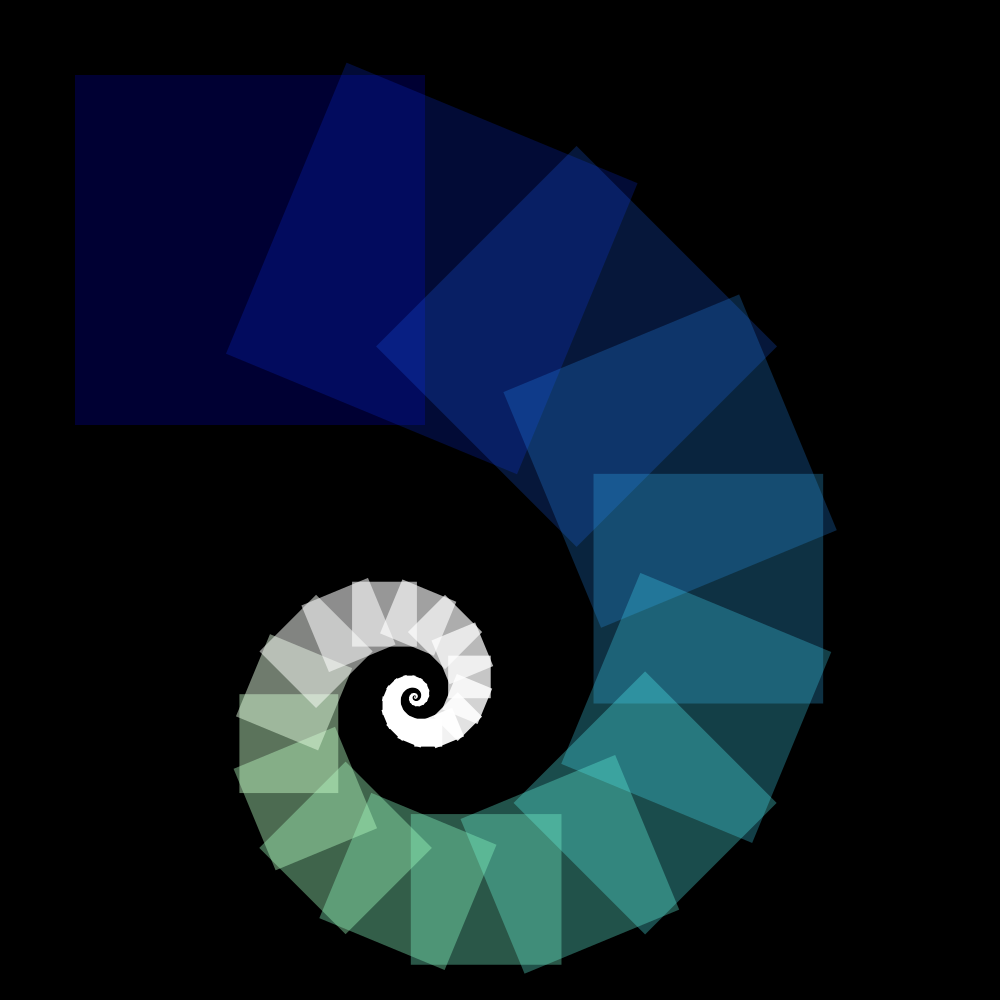
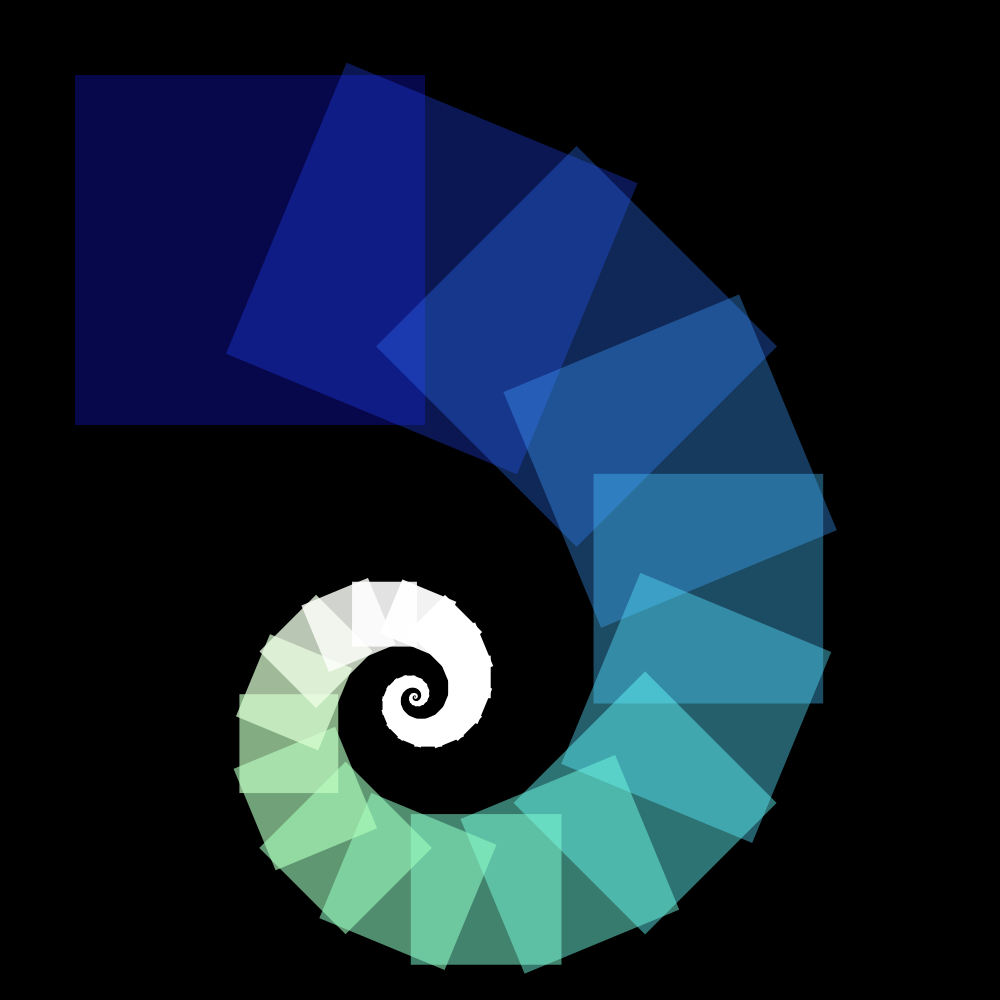
Added command to give background color (plus tests/example of this)

diff --git a/README.md b/README.md
@@ -28,6 +28,8 @@ These are all generated from `Test.hs`.
 
 ![HSL spiral](testHSL.png)
 
+![HSL spiral](testHSL2.png)
+
 ![Sierpinski (ish)](sierpinski.png)
 
 ![Not Sierpinski](notSierpinski.png)
@@ -36,31 +38,34 @@ These are all generated from `Test.hs`.
 
 * Ending grammars that don't converge (e.g. limiting recursion depth
 or number of primitives)
-* Explicit support for background color and starting color (right now
-I rely on Cairo backend for this).  It's cool to only use black as a
-background color, but it gets sorta boring...
 * A way to specify canvas size.  Right now, non-square images will
 throw off the aspect ratio - squares will be drawn as rectangles.
 * Support for other primitives: circle, line, arc
 * Non-uniform scaling.
 * Support for separate stroke and fill, and perhaps thickness
+* Better colorspace than "plain" RGB.
+[colour](https://hackage.haskell.org/package/colour) can probably help
+here.  Alongside this: A saner way of specifying colors.
 * Support for exporting SVG without needing something as heavy as
 Cairo (perhaps
 [blaze-svg](https://hackage.haskell.org/package/blaze-svg)).
 * Use of Data.Reify to transform recursive structures, perhaps to
-  backends that can express recursion natively
+backends that can express recursion natively or to a simplified
+expression
 * Integration with [IHaskell](https://github.com/gibiansky/IHaskell)
-  and [Jupyter](http://jupyter.org/).  Perhaps I can use the mechanism
-  that
-  [ihaskell-charts](https://hackage.haskell.org/package/ihaskell-charts)
-  uses, which looks like it ties in with
-  [Chart-cairo](https://hackage.haskell.org/package/Chart-cairo)
+and [Jupyter](http://jupyter.org/).  Perhaps I can use the mechanism
+that
+[ihaskell-charts](https://hackage.haskell.org/package/ihaskell-charts)
+uses, which looks like it ties in with
+[Chart-cairo](https://hackage.haskell.org/package/Chart-cairo)
     * Starting points on that:
       [Gtk2hs Tutorial](http://www.muitovar.com/gtk2hs/app1.html),
       [Beautiful Code](http://www.renci.org/wp-content/pub/tutorials/BeautifulCode.pdf),
       [ihaskell-diagrams](https://github.com/gibiansky/IHaskell/blob/1b6d9081f2109fd50dcdbaebe9dbad1676a01d78/ihaskell-display/ihaskell-diagrams/IHaskell/Display/Diagrams.hs)
 * Some magic with [ghcjs](https://github.com/ghcjs/ghcjs) to allow
-  this to run in, and render in, the browser
+this to run in, and render in, the browser
+([Canvas](https://github.com/ghcjs/ghcjs-base/tree/master/JavaScript/Web/Canvas)?
+SVG?)
 * Separate modules for backends (as many other libraries do)
 * Perhaps rewriting using a simpler form of 'Free' that just uses the
 parts I need
@@ -76,3 +81,4 @@ drawing and lacks the `save`/`restore` of Cairo.
 * Am I using
 [Comonad](http://www.haskellforall.com/2013/02/you-could-have-invented-comonads.html)
 implicitly?  Should I be using it explicitly?
+* Travis CI build
